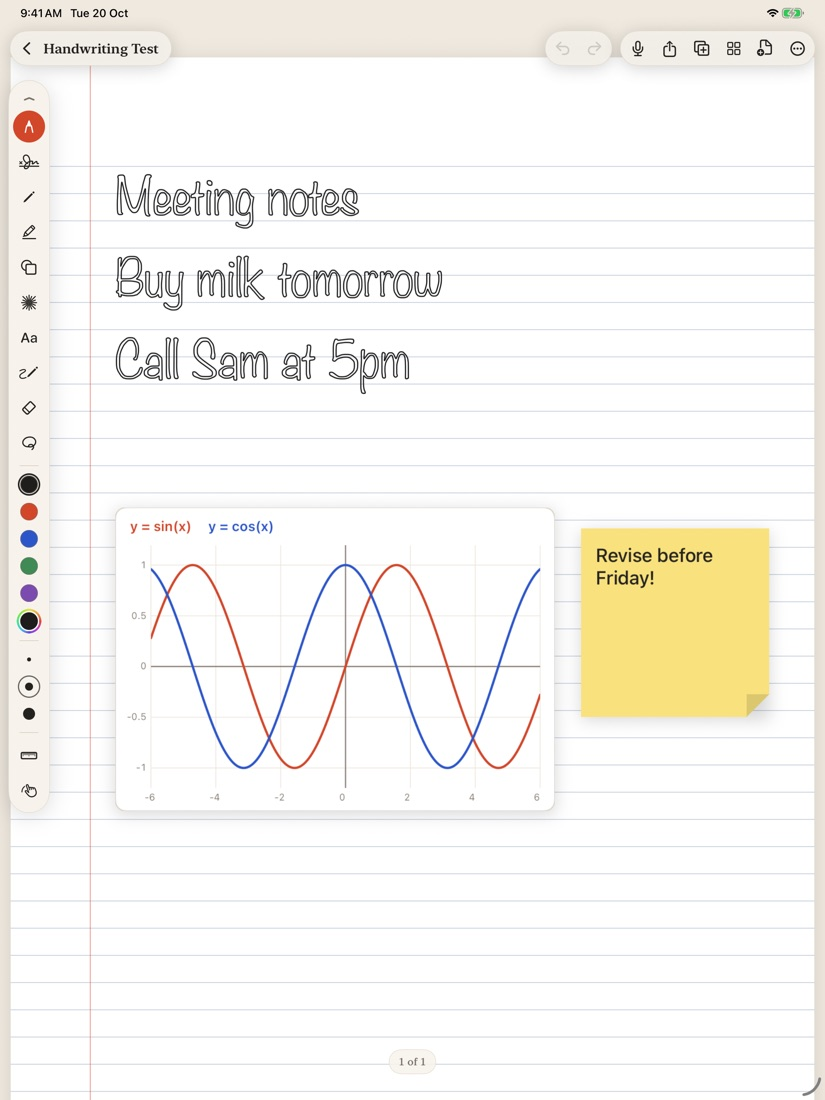
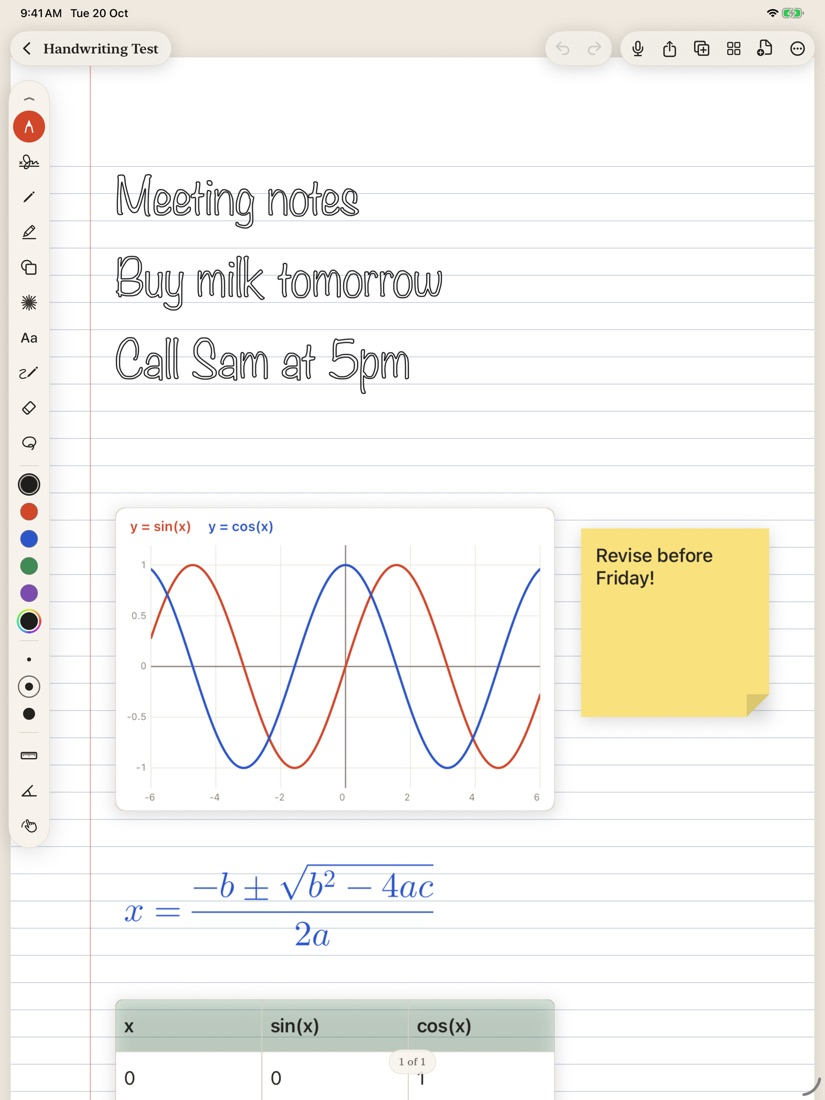
docs: cover maths tools in the README

diff --git a/README.md b/README.md
@@ -17,8 +17,8 @@ Notebooks, PDFs and endless canvases, built for Apple Pencil.
 - **Notebooks that feel like objects.** Cloth, leather, linen and patterned covers with page edges, ribbons, labels, emoji, or your own photo.
 - **Endless canvases.** A Freeform-style board for sticky notes, shapes, photos and graphs, kept in its own space apart from your notebooks.
 - **Handwriting to text.** Search everything you've written, convert pages to text, or write with the Text Pen and watch it become typed text.
-- **Graphs built in.** Type `y = sin(x)` and get a plotted graph on the page.
-- **Private by design.** Recognition, search and storage all happen on the iPad. No accounts, no servers, no third-party code.
+- **Maths built in.** LaTeX equations, function graphs, tables, a protractor and a unit converter.
+- **Private by design.** Recognition, search and storage all happen on the iPad. No accounts, no servers.
 
 ## Writing
 
@@ -28,7 +28,7 @@ Notebooks, PDFs and endless canvases, built for Apple Pencil.
 <td width="50%"><img src="docs/screenshots/ruler.jpg" alt="The rotatable ruler over a lined page"></td>
 </tr>
 <tr>
-<td><b>Notebook pages</b>: handwriting, graphs and sticky notes on the same page. The Ink Rail floats beside the page and folds away to a single button.</td>
+<td><b>Notebook pages</b>: handwriting, graphs, LaTeX equations, tables and sticky notes on the same page. The Ink Rail floats beside the page and folds away to a single button.</td>
 <td><b>Rotatable ruler</b>: twist with two fingers or use the angle buttons. It snaps to 45° steps and straightens lines drawn along its edge.</td>
 </tr>
 </table>
@@ -44,6 +44,7 @@ Notebooks, PDFs and endless canvases, built for Apple Pencil.
 | Text Pen | Handwriting turns into typed text a moment after you stop |
 | Eraser | **Object** and **Pixel** erasers in four sizes; also deletes text boxes |
 | Lasso | Select, move and resize ink |
+| Ruler and protractor | Rotate the ruler to draw straight lines at any angle; swing the protractor's arm to read angles |
 
 Apple Pencil double-tap switches to the eraser or your last tool (following your system setting), and a left-handed layout moves the rail to the right.
 
@@ -73,23 +74,41 @@ Apple Pencil double-tap switches to the eraser or your last tool (following your
 <td width="50%"><img src="docs/screenshots/canvases.jpg" alt="The Canvases section with board previews"></td>
 </tr>
 <tr>
-<td><b>An endless board</b> with an insert bar for sticky notes, shapes, text, photos and graphs. Fingers move and resize objects while the Pencil keeps drawing over them.</td>
+<td><b>An endless board</b> with an insert bar for sticky notes, shapes, text, photos, graphs, equations and tables. Fingers move and resize objects while the Pencil keeps drawing over them.</td>
 <td><b>Their own space</b>: canvases live behind the Canvases shelf in the Library, with live previews of each board.</td>
 </tr>
 </table>
 
-## Graphs and text
+## Maths tools
 
 <table>
 <tr>
+<td width="50%"><img src="docs/screenshots/equation.jpg" alt="The LaTeX equation editor"></td>
 <td width="50%"><img src="docs/screenshots/graph.jpg" alt="The graph editor with live preview"></td>
-<td width="50%"><img src="docs/screenshots/convert.jpg" alt="Converting handwriting to editable text"></td>
 </tr>
 <tr>
+<td><b>LaTeX equations</b>: type LaTeX or tap templates for fractions, roots, sums, integrals, limits, matrices and Greek letters. Typeset in Latin Modern, with a live preview.</td>
 <td><b>Graphs</b>: up to three functions per graph, such as <code>2x^2 - 3</code>, <code>3cos(2x) + 1</code>, <code>e^x</code> or <code>sqrt(x)</code>, with a live preview and an adjustable x range.</td>
-<td><b>Convert to Text</b>: turn a page or a whole notebook into editable text you can copy or share.</td>
+</tr>
+<tr>
+<td width="50%"><img src="docs/screenshots/protractor.jpg" alt="The protractor measuring an angle"></td>
+<td width="50%"><img src="docs/screenshots/converter.jpg" alt="The unit converter"></td>
+</tr>
+<tr>
+<td><b>Protractor</b>: drag and twist it into place, then swing the arm to read the angle.</td>
+<td><b>Unit converter</b>: length, mass, temperature, volume, area, speed, time and energy. Drop the result onto the page as text.</td>
 </tr>
 </table>
+
+Tables (up to 8×8, with a header row) can be inserted from the same menu.
+
+## Text
+
+<p align="center">
+<img src="docs/screenshots/convert.jpg" width="60%" alt="Converting handwriting to editable text">
+</p>
+
+**Convert to Text** turns a page or a whole notebook into editable text you can copy or share, and the **Text Pen** converts as you write.
 
 ## Make it yours
 
@@ -139,7 +158,7 @@ Debug builds accept launch arguments (**Product → Scheme → Edit Scheme → A
 
 ## Under the hood
 
-Inkpad is plain Swift with Apple frameworks only:
+Inkpad is plain Swift with Apple frameworks, plus [SwiftMath](https://github.com/mgriebling/SwiftMath) for typesetting LaTeX:
 
 | Framework | Used for |
 |---|---|
@@ -149,6 +168,7 @@ Inkpad is plain Swift with Apple frameworks only:
 | PDFKit / Core Graphics | PDF import, vector paper patterns and PDF export |
 | Vision | On-device handwriting recognition for search and Text Pen |
 | AVFoundation | Audio recording and playback |
+| SwiftMath | LaTeX equations (MIT licence) |
 
 ```
 Inkpad/
